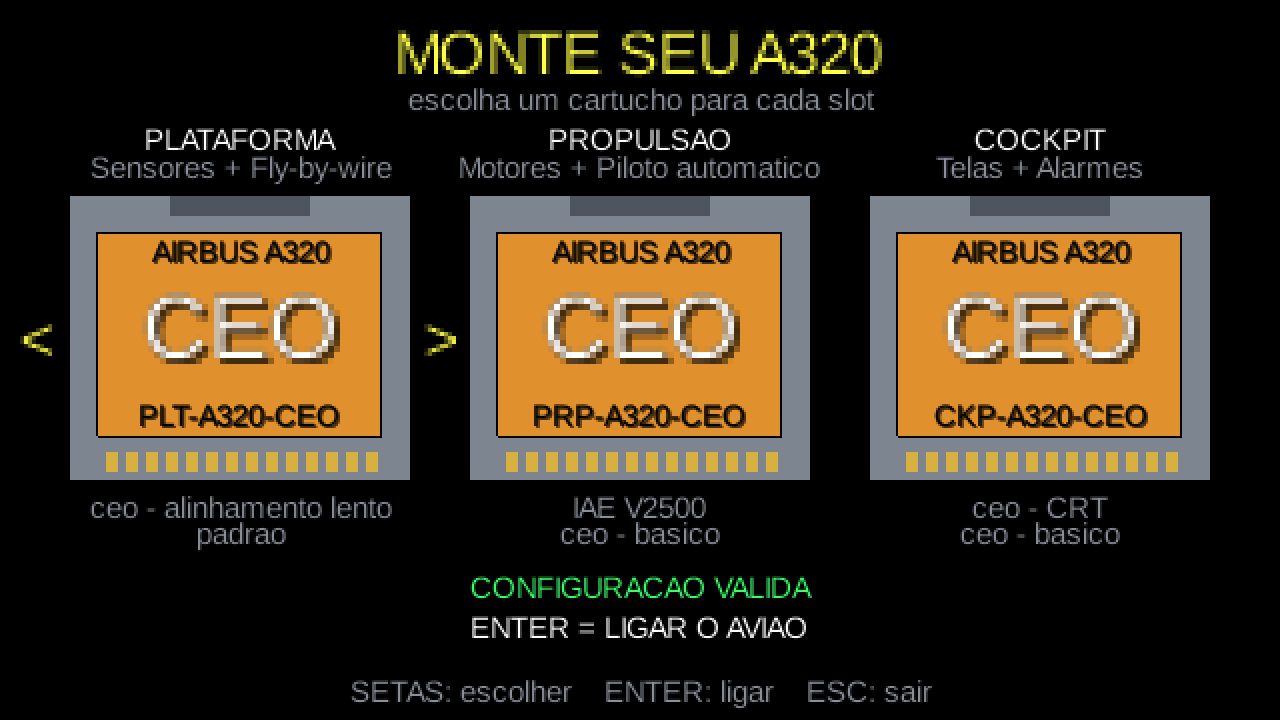
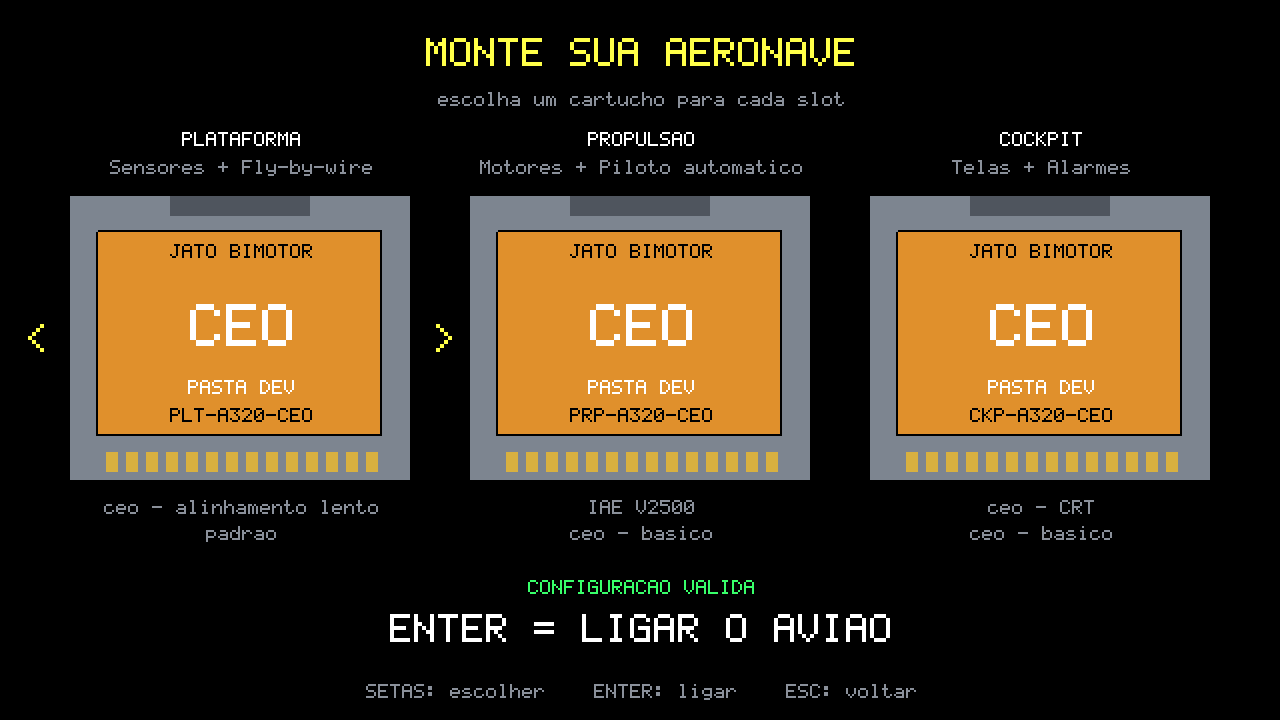
docs: README e screenshot do rack com o nome SICA

diff --git a/README.md b/README.md
@@ -1,10 +1,12 @@
-# A320 SIM
+# SICA
 
-Simulador de A320 com estética de console retrô. As "caixas pretas" do avião são carregadas por **cartuchos** (cartões SD), e o instrutor monta o avião escolhendo quais cartuchos encaixar.
+**Simulador Integrado de Configuração Aeronáutica**
+
+Simulador de jato bimotor com estética de console retrô. As "caixas pretas" do avião são carregadas por **cartuchos** (cartões SD), e o instrutor monta o avião escolhendo quais cartuchos encaixar.
 
 ![Vista pela janela na cabeceira da pista 15 de Viracopos](docs/img/janela-pista.png)
 
-| Monte seu A320 | Em voo pela janela |
+| Monte sua aeronave | Em voo pela janela |
 |---|---|
 | ![Tela de montagem do rack com três cartuchos](docs/img/rack.png) | ![Vista pela janela a 8000 pés com HUD](docs/img/janela-voo.png) |
 | **Painel neo (LCD), em voo** | **Painel ceo (CRT), sensores alinhando** |
@@ -68,7 +70,7 @@ Repita para `PLT-A320-NEO`, `PRP-A320-CEO`, `PRP-A320-NEO`, `CKP-A320-CEO` e `CK
 
 **Usando:**
 
-- Na tela **MONTE SEU A320**, encaixar um cartão no leitor coloca ele direto no slot do grupo dele; tirar o cartão esvazia o slot. As setas continuam funcionando quando há mais de um cartão do mesmo grupo plugado.
+- Na tela **MONTE SUA AERONAVE**, encaixar um cartão no leitor coloca ele direto no slot do grupo dele; tirar o cartão esvazia o slot. As setas continuam funcionando quando há mais de um cartão do mesmo grupo plugado.
 - **Com o avião ligado**, tirar um cartão desliga as caixas dele na hora (ex.: sem o COCKPIT as telas apagam e os alarmes somem) e aparece **CARTUCHO REMOVIDO** no cockpit e no log do instrutor. Encaixar de volta (em qualquer leitor) faz o *data loading* e as caixas religam com self-test; os sensores precisam alinhar de novo. Cartão incompatível (ex.: COCKPIT ceo com PROPULSAO neo) é recusado.
 - O `.jar` é copiado para `cache/` antes de carregar, então o Windows não trava o arquivo no cartão.
 
